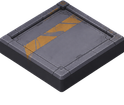
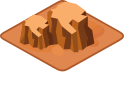
w7

diff --git a/gpt_test1.html b/gpt_test1.html
@@ -359,7 +359,7 @@
         window.levelConfig = levels[0];
     </script>
 
-    <script src="js/game/codemino_engine.js"></script>
+    <script src="js/game/codemino_engine.js?v=20260619-logic-step"></script>
 </body>
 
 </html>